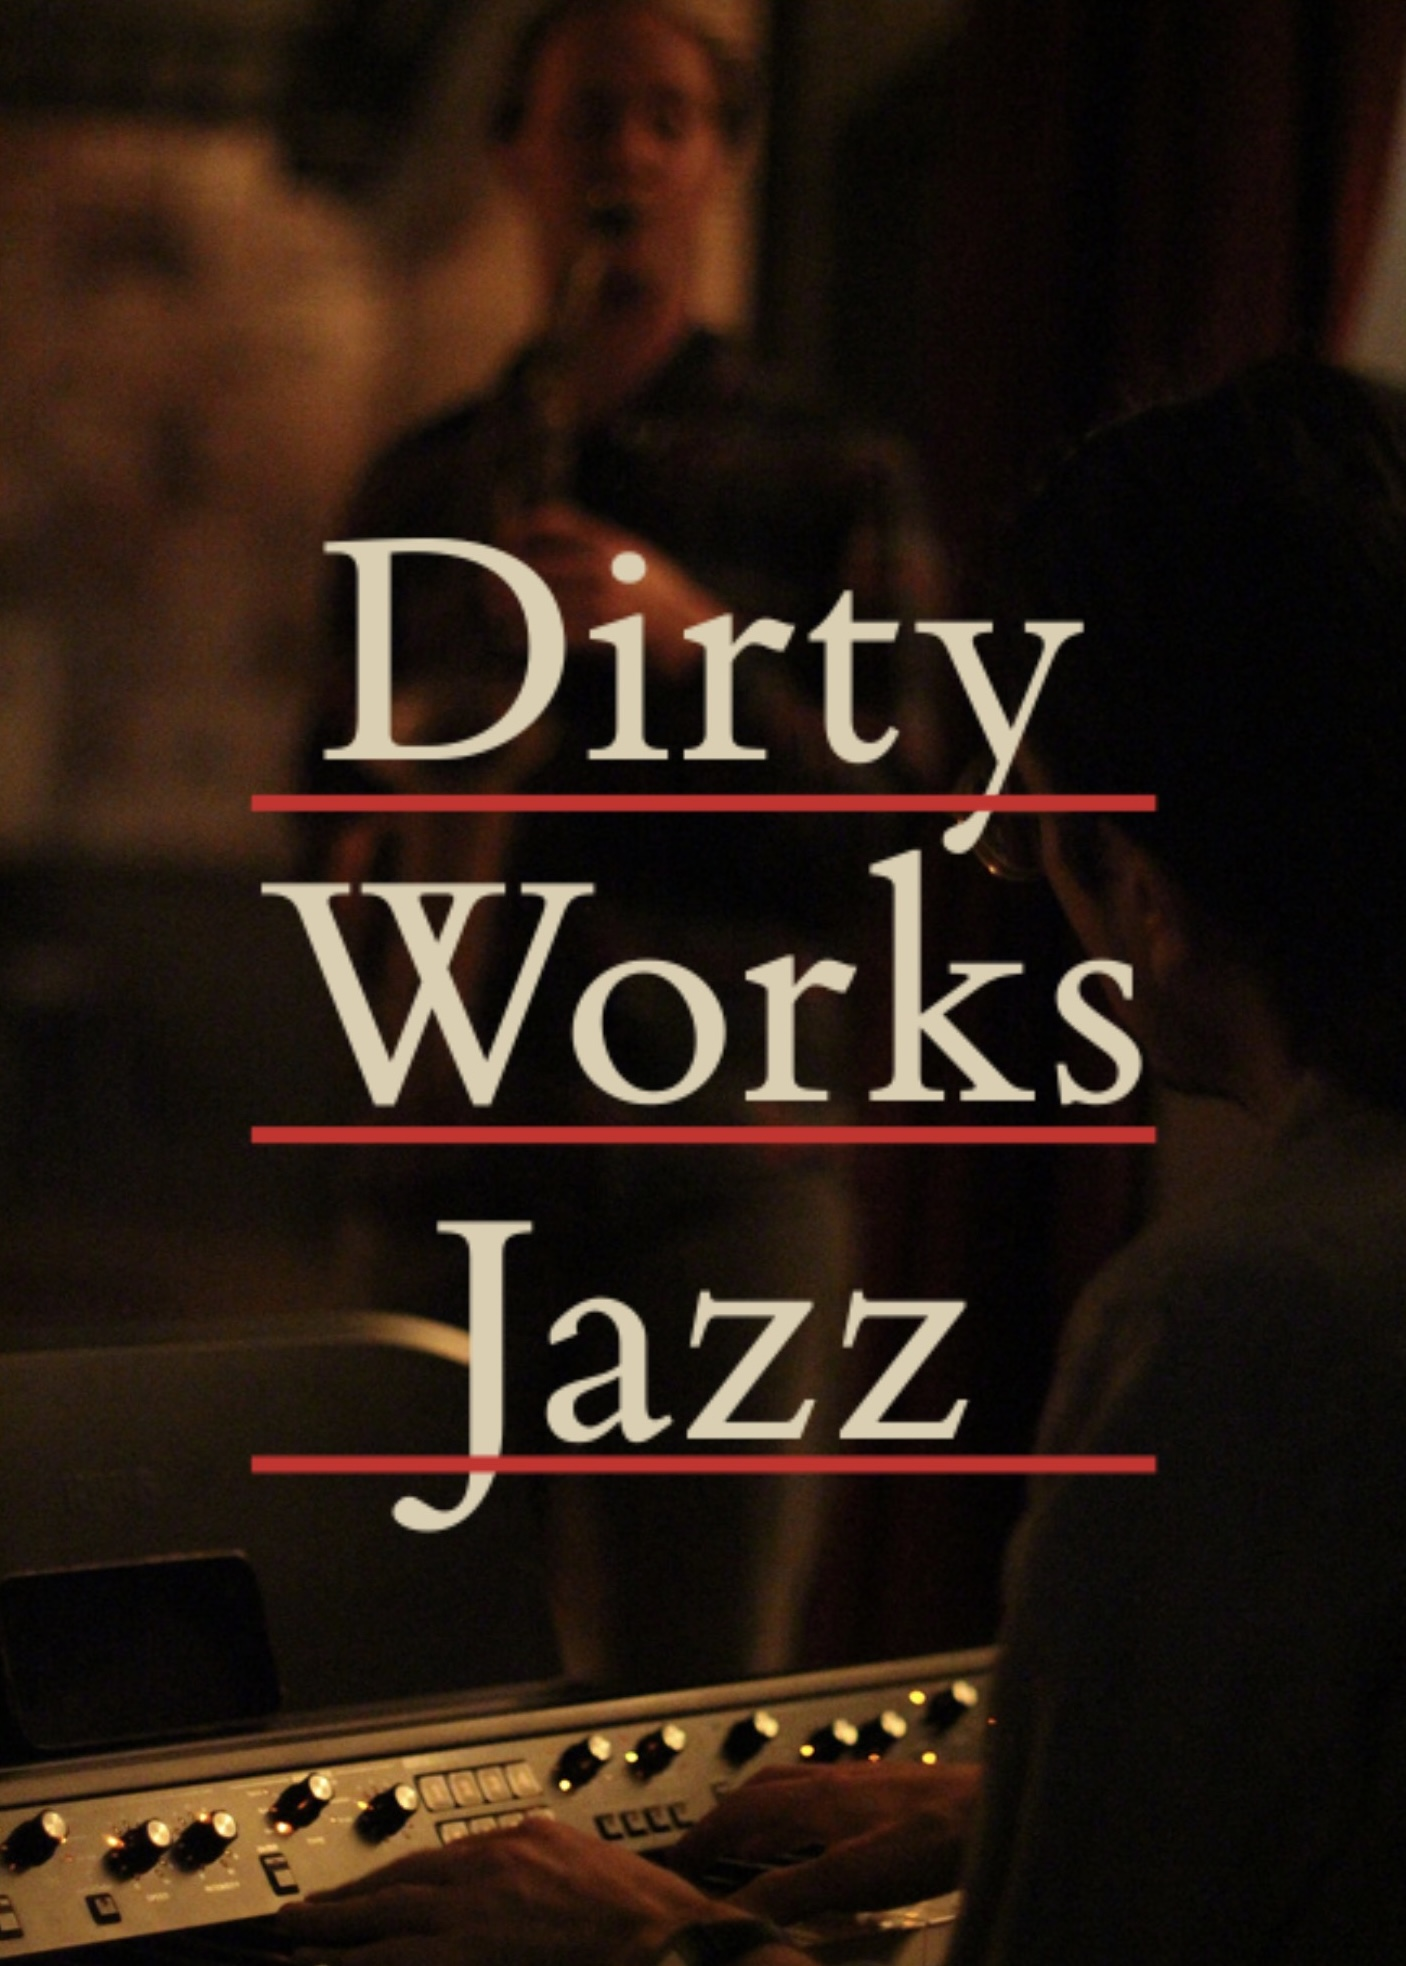
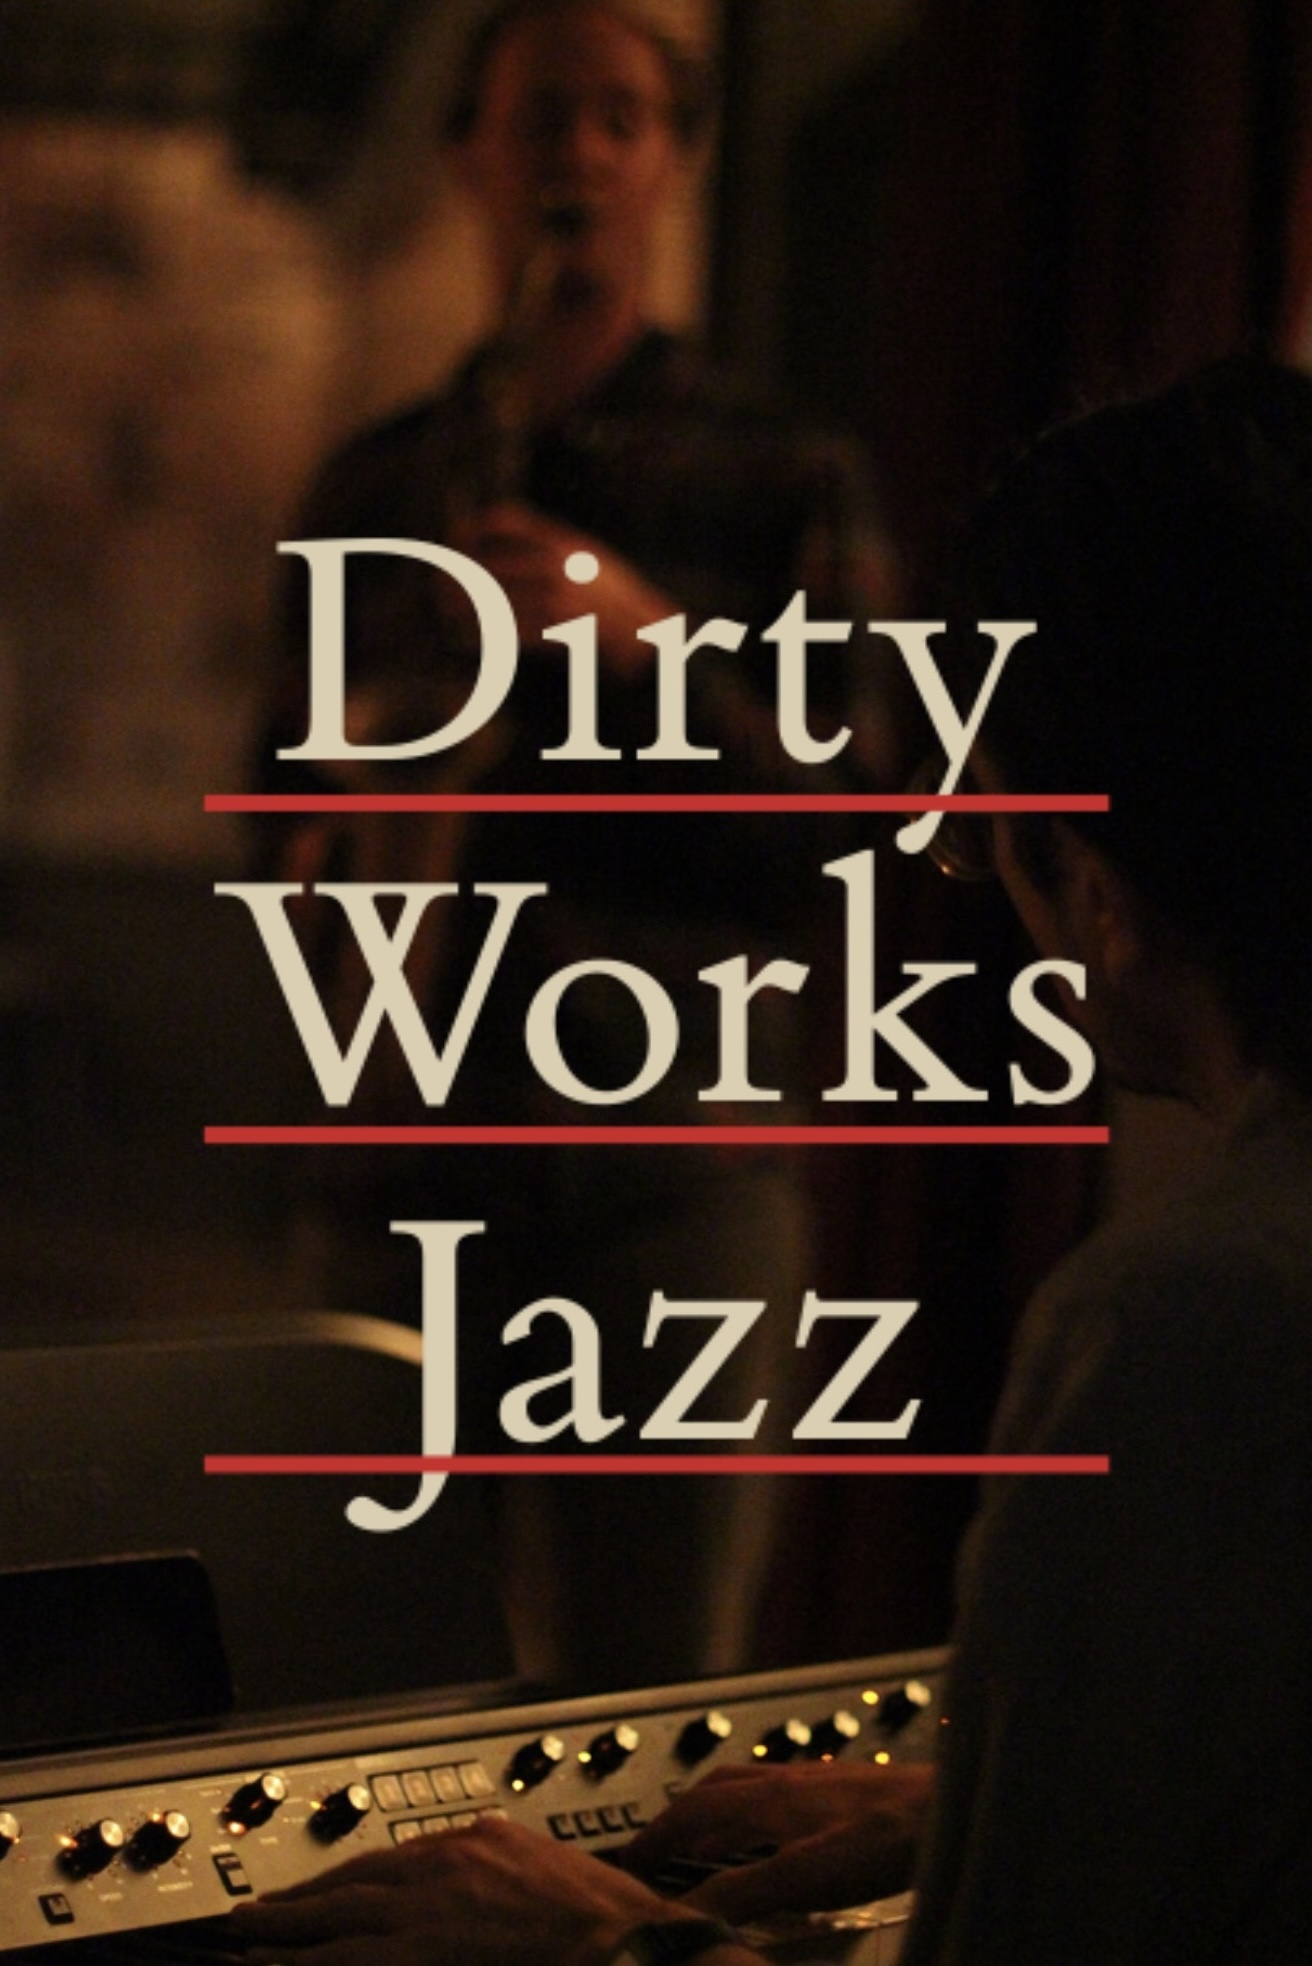
updated: added photo carousel

diff --git a/packages/vue-client/src/components/PhotoCarousel.vue b/packages/vue-client/src/components/PhotoCarousel.vue
@@ -1,0 +1,105 @@
+<template>
+  <img id="image" class="image" :src="image?.src" :alt="image?.alt" />
+</template>
+
+<script setup lang="ts">
+/*
+Combination of the following approaches...
+https://github.com/prachishah26/Slider-Vue-3/blob/main/src/components/Slider.vue
+https://stackoverflow.com/a/75604594
+*/
+import { ref, onUnmounted, onMounted } from 'vue'
+
+const images = [
+  {
+    src: '/src/assets/dirty-works-jazz.jpg',
+    alt: 'Dirty Works Jazz Band',
+  },
+  {
+    src: '/public/media/images/2024.10.06_02-Persona.jpg',
+    alt: 'Richard Batelaan with the Dirty Works Jazz Band at Persona',
+  },
+  {
+    src: '/public/media/images/2024.10.16_03-Shoe_Jam.jpg',
+    alt: 'Peter playing trumpet at the Lucky Horseshoe Jam',
+  },
+  {
+    src: '/public/media/images/2024.10.14_01-Waystone.jpg',
+    alt: 'Waystone Jazz jam',
+  },
+  {
+    src: '/public/media/images/2024.10.16_01-Shoe_Jam.jpg',
+    alt: 'Gale singing the blues at the Lucky Horseshoe Jam',
+  },
+  {
+    src: '/public/media/images/2024.10.06_03-Persona.jpg',
+    alt: 'Jammers playing at the Persona Jazz Jam',
+  },
+  {
+    src: '/public/media/images/2024.10.16_11-Shoe_Jam.jpg',
+    alt: 'Ruben on the keys at the Lucky Horseshoe Jam',
+  },
+]
+
+const currentIndex = ref(0)
+let intervalId: number
+let image = images[0]
+
+const isTimerPaused = ref(false)
+
+const next = () => {
+  currentIndex.value = (currentIndex.value + 1) % images.length
+
+  var img = document.getElementById('image') as HTMLImageElement
+  img?.classList.remove('show')
+  img?.classList.add('fade')
+  setTimeout(function () {
+    let newImg = images[currentIndex.value] as { src: string; alt: string }
+    img.src = newImg.src
+    img.alt = newImg.alt
+    img.classList.remove('fade')
+    img.classList.add('show')
+  }, 1500)
+
+  isTimerPaused ? '' : start()
+}
+
+const start = () => {
+  intervalId = setInterval(() => {
+    next()
+  }, 6000)
+}
+
+onMounted(() => {
+  start()
+})
+
+onUnmounted(() => {
+  clearInterval(intervalId)
+})
+</script>
+
+<style scoped>
+.image {
+  display: block;
+  margin: 1rem auto 2rem;
+  width: 90%;
+  max-width: 400px;
+  transition: opacity 1.8s ease-in-out;
+}
+
+#image.fade {
+  opacity: 0;
+}
+
+#image.show {
+  opacity: 1;
+}
+
+@media (min-width: 1024px) {
+  .image {
+    margin: 1rem 2rem 0 0;
+    width: 525px;
+  }
+}
+</style>

diff --git a/packages/vue-client/src/App.vue b/packages/vue-client/src/App.vue
@@ -2,12 +2,12 @@
   <header>
     <div class="wrapper">
       <nav>
-        <RouterLink :to='{ name: RouteNames.About }'>Dirty Works Jazz</RouterLink>
-        <RouterLink :to='{ name: RouteNames.Home }'>Upcoming Shows</RouterLink>
+        <RouterLink :to="{ name: RouteNames.About }">Dirty Works Jazz</RouterLink>
+        <RouterLink :to="{ name: RouteNames.Home }">Upcoming Shows</RouterLink>
         <JamsMenu></JamsMenu>
       </nav>
-      
-      <img v-if=application.showHero alt="Dirty Works Jazz" class="flyer" src="@/assets/dirty-works-jazz.jpg" />
+
+      <PhotoCarousel v-if="application.showHero" />
     </div>
   </header>
 
@@ -18,6 +18,7 @@
 import { RouterLink, RouterView } from 'vue-router'
 import JamsMenu from '@/components/JamsMenu.vue'
 import { RouteNames } from '@/router/route-names'
+import PhotoCarousel from '@/components/PhotoCarousel.vue'
 import { useApplicationStore } from '@/stores/application'
 
 const application = useApplicationStore()
@@ -28,13 +29,6 @@ const application = useApplicationStore()
 header {
   line-height: 1.5;
   max-height: 100vh;
-}
-
-.flyer {
-  display: block;
-  margin: 1rem auto 2rem;
-  width: 90%;
-  max-width: 400px;
 }
 
 nav {
@@ -58,7 +52,7 @@ nav a.router-link-exact-active:hover {
 
 nav a {
   display: inline-block;
-  padding: 0 .5rem;
+  padding: 0 0.5rem;
   border-left: 1px solid var(--color-border);
 }
 
@@ -70,10 +64,6 @@ nav a:first-of-type {
   @media (orientation: landscape) {
     header {
       line-height: 1.5;
-      max-height: 5vh;
-    }
-    .flyer {
-      visibility: hidden;
     }
   }
 }
@@ -83,11 +73,6 @@ nav a:first-of-type {
     display: flex;
     place-items: center;
     padding-right: calc(var(--section-gap) / 2);
-  }
-
-  .flyer {
-    margin: 1rem 2rem 0 0;
-    width: 525px;
   }
 
   header .wrapper {
